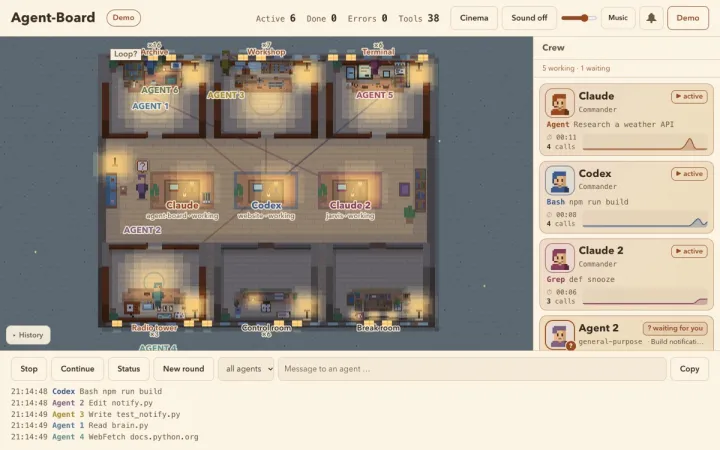
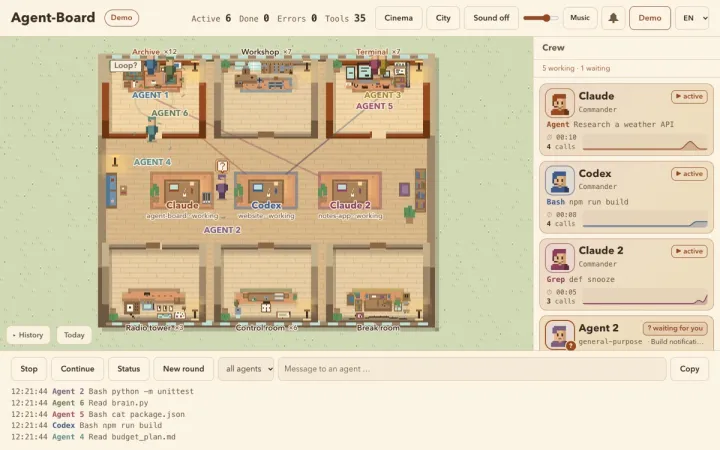
Agent-Board-Bild erneuert (aktueller Look bei Tag), Alt-Texte angepasst

diff --git a/index.html b/index.html
@@ -354,7 +354,7 @@ footer .wrap > :last-child{margin-left:auto}
         <a class="shot" href="https://stefan-paun.github.io/agent-board/?demo=1" target="_blank" rel="noopener" aria-label="Live-Demo von Agent-Board öffnen (neuer Tab)">
           <picture>
             <source type="image/webp" srcset="img/agent-board-720.webp">
-            <img src="img/agent-board.jpg" width="1200" height="750" loading="lazy" alt="Agent-Board bei Nacht: eine Pixel-Wohnung mit Räumen für Archiv, Werkstatt und Terminal, darin kleine Agenten-Figuren, rechts die Liste der aktiven Agents.">
+            <img src="img/agent-board.jpg" width="1200" height="750" loading="lazy" alt="Agent-Board bei Tag: eine Pixel-Wohnung mit Räumen für Archiv, Werkstatt und Terminal, drei Schreibtische für Claude, Codex und Claude 2, kleine Agenten-Figuren in den Räumen, einer wartet mit Fragezeichen, rechts die Liste der aktiven Agents.">
           </picture>
         </a>
       </article>

diff --git a/detektor.html b/detektor.html
@@ -359,7 +359,7 @@ footer .wrap span:last-child{margin-left:auto}
         <figure class="plate">
           <picture>
             <source type="image/webp" srcset="img/agent-board-720.webp">
-            <img src="img/agent-board.jpg" width="1200" height="750" loading="lazy" alt="Agent-Board bei Nacht: eine Pixel-Wohnung mit Räumen für Archiv, Werkstatt und Terminal, darin kleine Agenten-Figuren, rechts die Liste der aktiven Agents.">
+            <img src="img/agent-board.jpg" width="1200" height="750" loading="lazy" alt="Agent-Board bei Tag: eine Pixel-Wohnung mit Räumen für Archiv, Werkstatt und Terminal, darin kleine Agenten-Figuren, rechts die Liste der aktiven Agents.">
           </picture>
           <figcaption>Demo-Sitzung, Nachtmodus</figcaption>
         </figure>
